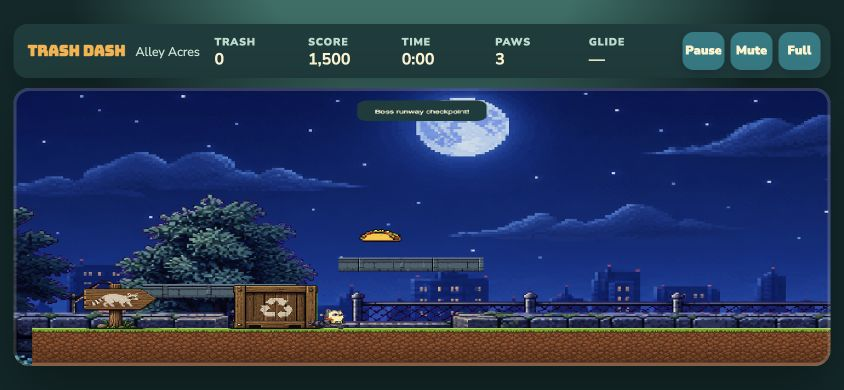
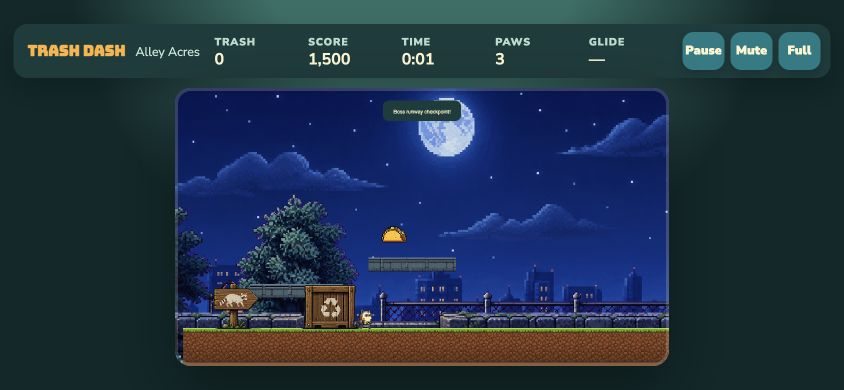
docs: correct task 8 responsive evidence

diff --git a/.superpowers/sdd/2026-08-09-game-wide-integrity-repair/task-8-report.md b/.superpowers/sdd/2026-08-09-game-wide-integrity-repair/task-8-report.md
@@ -76,6 +76,30 @@ Representative evidence:
 Evidence directory:
 `docs/superpowers/reports/2026-08-09-game-wide-integrity/after/`.
 
+### Corrected 844×390 evidence (review fix round 1)
+
+After review commit `243713d` identified four stale pre-fix captures, the
+controller recaptured and replaced the Level 1 park, Level 1 boss, Brutus, and
+Level 2 victory files after the final CSS. Each fresh route used its own
+`visualQa=...-final` URL and produced the same inspected geometry:
+
+- viewport: 844×390;
+- stage: `x=174.890625`, `y=88`, `width=494.21875`,
+  `height=277.9921875`, ratio `1.7778152488547903`;
+- canvas: the identical rectangle and ratio;
+- document scroll dimensions: 844×390; and
+- route-scoped `warn`/`warning`/`error` logs: `[]`.
+
+The replaced files are `task8-level1-landscape-844x390.png`,
+`task8-boss1-landscape-844x390.png`,
+`task8-brutus-landscape-844x390.png`, and
+`task8-victory2-landscape-844x390.png`. Visual inspection confirms a centered,
+uncropped cabinet with no viewport overflow in all four captures. PNG pixel
+dimensions alone cannot prove the internal stage aspect ratio; the inspected
+stage/canvas DOM rectangles above are the primary geometry evidence, with the
+screenshots serving as corroborating visual evidence. No runtime or test code
+changed in this evidence-only review fix.
+
 ## Capability boundary
 
 The selected browser reported `touchFirst: false` at every viewport. Therefore:

diff --git a/docs/visual-audit.md b/docs/visual-audit.md
@@ -630,9 +630,16 @@ Browser diagnostics:
   gameplay geometry, sprite scale, or per-screen offsets.
 - Verification: browser measurements after the final change are 938.664×527.992
   (1.7778) at 1024×640, 494.219×277.992 (1.7778) at 844×390, and 1280×720
-  (1.7778) at 1440×900. Canvas and stage rectangles agree and page scroll
-  dimensions equal the viewport. Fresh screenshots and logs are under
-  `docs/superpowers/reports/2026-08-09-game-wide-integrity/after/task8-*`.
+  (1.7778) at 1440×900. In the controller's post-review recapture of Level 1
+  park, Level 1 boss, Brutus, and Level 2 victory, every 844×390 route measured
+  `x=174.890625`, `y=88`, `width=494.21875`, `height=277.9921875`, ratio
+  `1.7778152488547903`; the canvas matched exactly, document scroll dimensions
+  were 844×390, and route-scoped warning/error logs were empty. The four
+  corrected screenshots are the corresponding
+  `task8-{level1,boss1,brutus,victory2}-landscape-844x390.png` files under the
+  Task 8 evidence directory. DOM rectangles are the primary aspect-ratio
+  evidence because PNG dimensions alone cannot establish the internal stage
+  geometry; the screenshots corroborate centering, clipping, and overflow.
 
 ### VIS-010: Input retained across pause/fullscreen transitions (Task 8)
 
